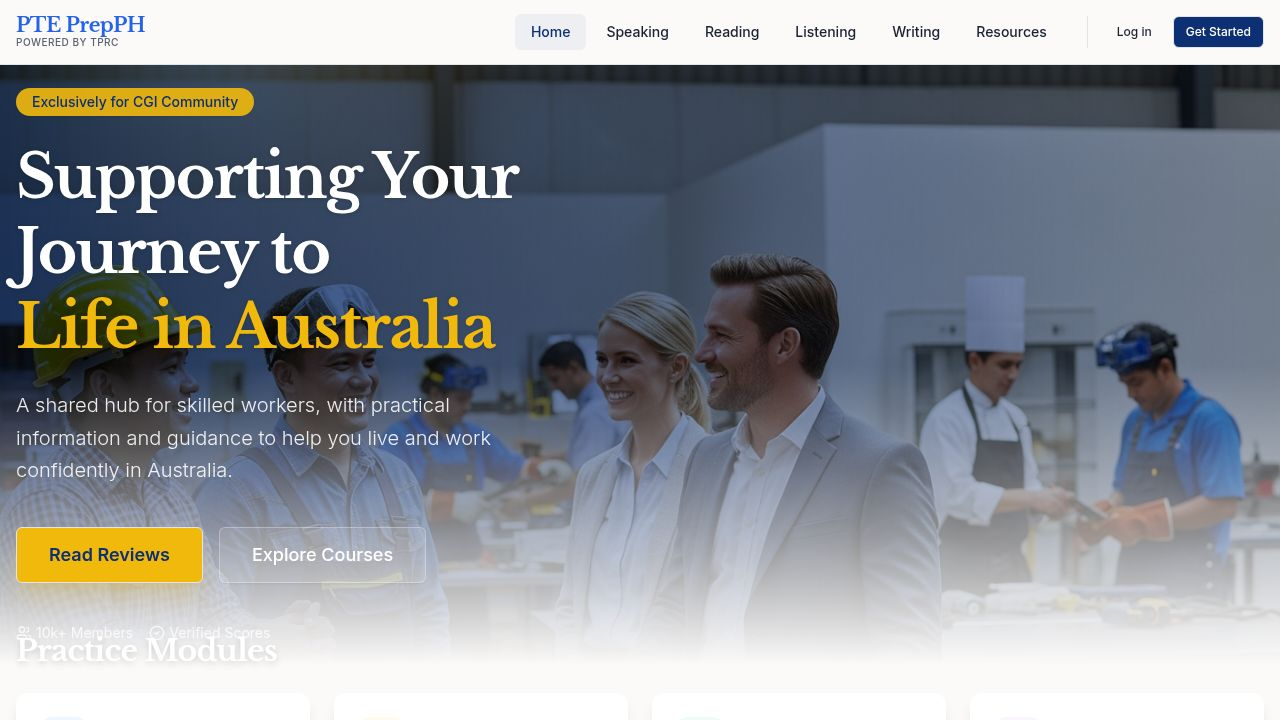
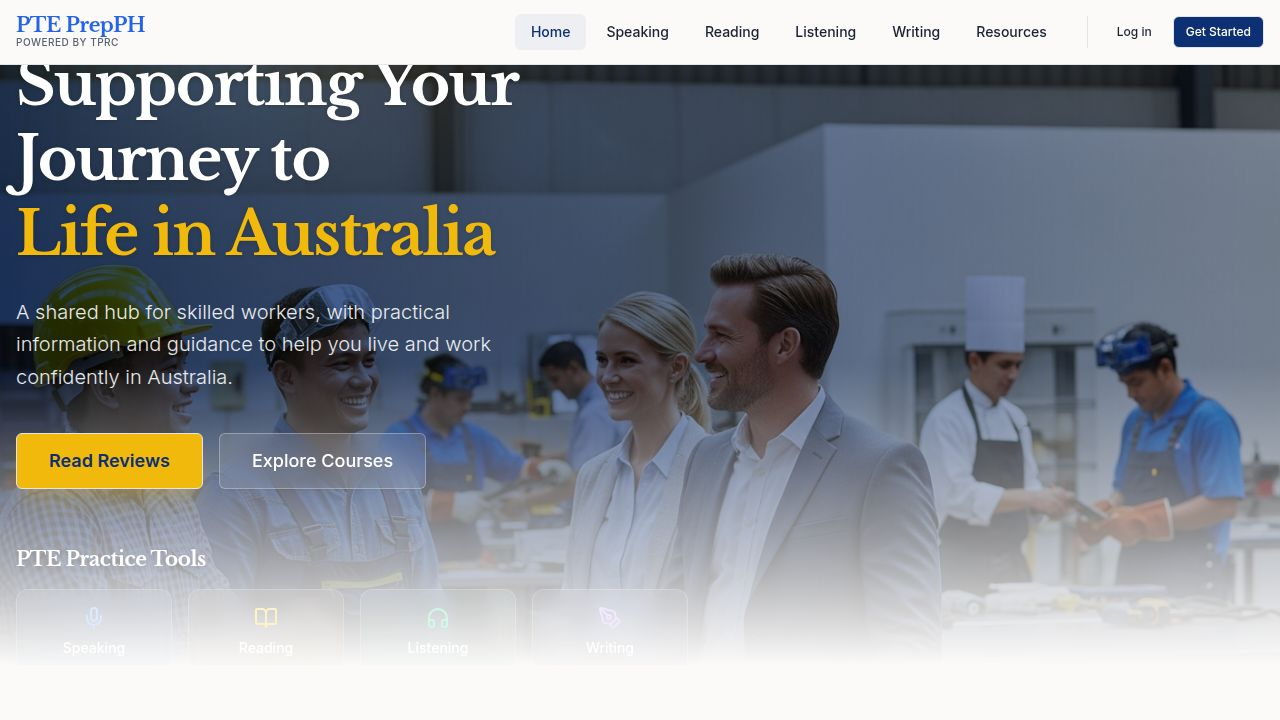
Rearrange practice modules to integrate with hero section
Move PTE practice modules to appear directly below the main call-to-action buttons within the homepage's hero section, altering their styling and removing the separate section.

Replit-Commit-Author: Agent
Replit-Commit-Session-Id: d1e03227-865d-49bb-8f7a-67d356121093
Replit-Commit-Checkpoint-Type: full_checkpoint
Replit-Commit-Event-Id: e39f79f6-cb7e-40a4-942a-a177e7fe19dd
Replit-Commit-Screenshot-Url: https://storage.googleapis.com/screenshot-production-us-central1/b4d83f65-91cd-4778-9c7d-251da269ece9/d1e03227-865d-49bb-8f7a-67d356121093/8eXP6u2
Replit-Helium-Checkpoint-Created: true

Changed region(s): [[0.0, 0.0917, 0.4062, 0.4889], [0.0, 0.5194, 0.375, 0.7028], [0.0, 0.7333, 0.3125, 0.8556]]

diff --git a/client/src/pages/home.tsx b/client/src/pages/home.tsx
@@ -38,6 +38,51 @@ export default function Home() {
                 <Link href="/lms" onClick={() => analytics.trackExploreCourses()}>Explore Courses</Link>
               </Button>
             </div>
+            
+            {/* Practice Modules Section moved up */}
+            <div className="pt-8">
+              <h3 className="text-xl font-serif font-bold text-white mb-4 drop-shadow-md">PTE Practice Tools</h3>
+              <div className="grid grid-cols-2 md:grid-cols-4 gap-4">
+                {[
+                  {
+                    title: "Speaking",
+                    icon: Mic,
+                    color: "bg-blue-50/10 text-blue-100",
+                    hoverColor: "hover:bg-blue-50/20",
+                    href: "/practice/speaking"
+                  },
+                  {
+                    title: "Reading",
+                    icon: BookOpen,
+                    color: "bg-amber-50/10 text-amber-100",
+                    hoverColor: "hover:bg-amber-50/20",
+                    href: "/practice/reading"
+                  },
+                  {
+                    title: "Listening",
+                    icon: Headphones,
+                    color: "bg-emerald-50/10 text-emerald-100",
+                    hoverColor: "hover:bg-emerald-50/20",
+                    href: "/practice/listening"
+                  },
+                  {
+                    title: "Writing",
+                    icon: PenTool,
+                    color: "bg-purple-50/10 text-purple-100",
+                    hoverColor: "hover:bg-purple-50/20",
+                    href: "/practice/writing"
+                  }
+                ].map((module, i) => (
+                  <Link key={i} href={module.href}>
+                    <div className={`p-4 rounded-xl border border-white/20 backdrop-blur-sm transition-all duration-300 flex flex-col items-center justify-center gap-2 cursor-pointer ${module.color} ${module.hoverColor}`}>
+                      <module.icon className="h-6 w-6" />
+                      <span className="font-medium text-sm text-white">{module.title}</span>
+                    </div>
+                  </Link>
+                ))}
+              </div>
+            </div>
+
             <div className="flex items-center gap-4 text-white/80 text-sm pt-4">
               <div className="flex items-center gap-1">
                 <Users className="h-4 w-4" />
@@ -51,58 +96,9 @@ export default function Home() {
           </div>
         </div>
       </section>
-      {/* Practice Modules Section */}
-      <section className="container mx-auto px-4 -mt-24 relative z-20">
-        <h2 className="text-3xl font-serif font-bold text-white mb-6 drop-shadow-md">PTE Practice Tools</h2>
-        <div className="grid md:grid-cols-4 gap-6">
-          {[
-            {
-              title: "Speaking",
-              desc: "Read Aloud, Repeat Sentence, Describe Image, and more.",
-              icon: Mic,
-              color: "bg-blue-50 text-blue-700",
-              href: "/practice/speaking"
-            },
-            {
-              title: "Reading",
-              desc: "Fill in the blanks, Multiple Choice, Reorder Paragraphs.",
-              icon: BookOpen,
-              color: "bg-amber-50 text-amber-700",
-              href: "/practice/reading"
-            },
-            {
-              title: "Listening",
-              desc: "Summarize Spoken Text, Write from Dictation.",
-              icon: Headphones,
-              color: "bg-emerald-50 text-emerald-700",
-              href: "/practice/listening"
-            },
-            {
-              title: "Writing",
-              desc: "Summarize Written Text & Essay Writing (10 Practice Qs).",
-              icon: PenTool,
-              color: "bg-purple-50 text-purple-700",
-              href: "/practice/writing"
-            }
-          ].map((module, i) => (
-            <Link key={i} href={module.href}>
-              <Card className="border-none shadow-lg hover:shadow-xl transition-all duration-300 hover:-translate-y-1 cursor-pointer h-full">
-                <CardContent className="p-6 space-y-4 flex flex-col h-full">
-                  <div className={`w-12 h-12 rounded-xl ${module.color} flex items-center justify-center`}>
-                    <module.icon className="h-6 w-6" />
-                  </div>
-                  <div>
-                    <h3 className="font-serif font-bold text-xl mb-2">{module.title}</h3>
-                    <p className="text-muted-foreground text-sm leading-relaxed">{module.desc}</p>
-                  </div>
-                </CardContent>
-              </Card>
-            </Link>
-          ))}
-        </div>
-      </section>
+
       {/* Features Grid */}
-      <section className="container mx-auto px-4">
+      <section className="container mx-auto px-4 mt-8">
         <div className="grid md:grid-cols-3 gap-6">
           {[
             {
